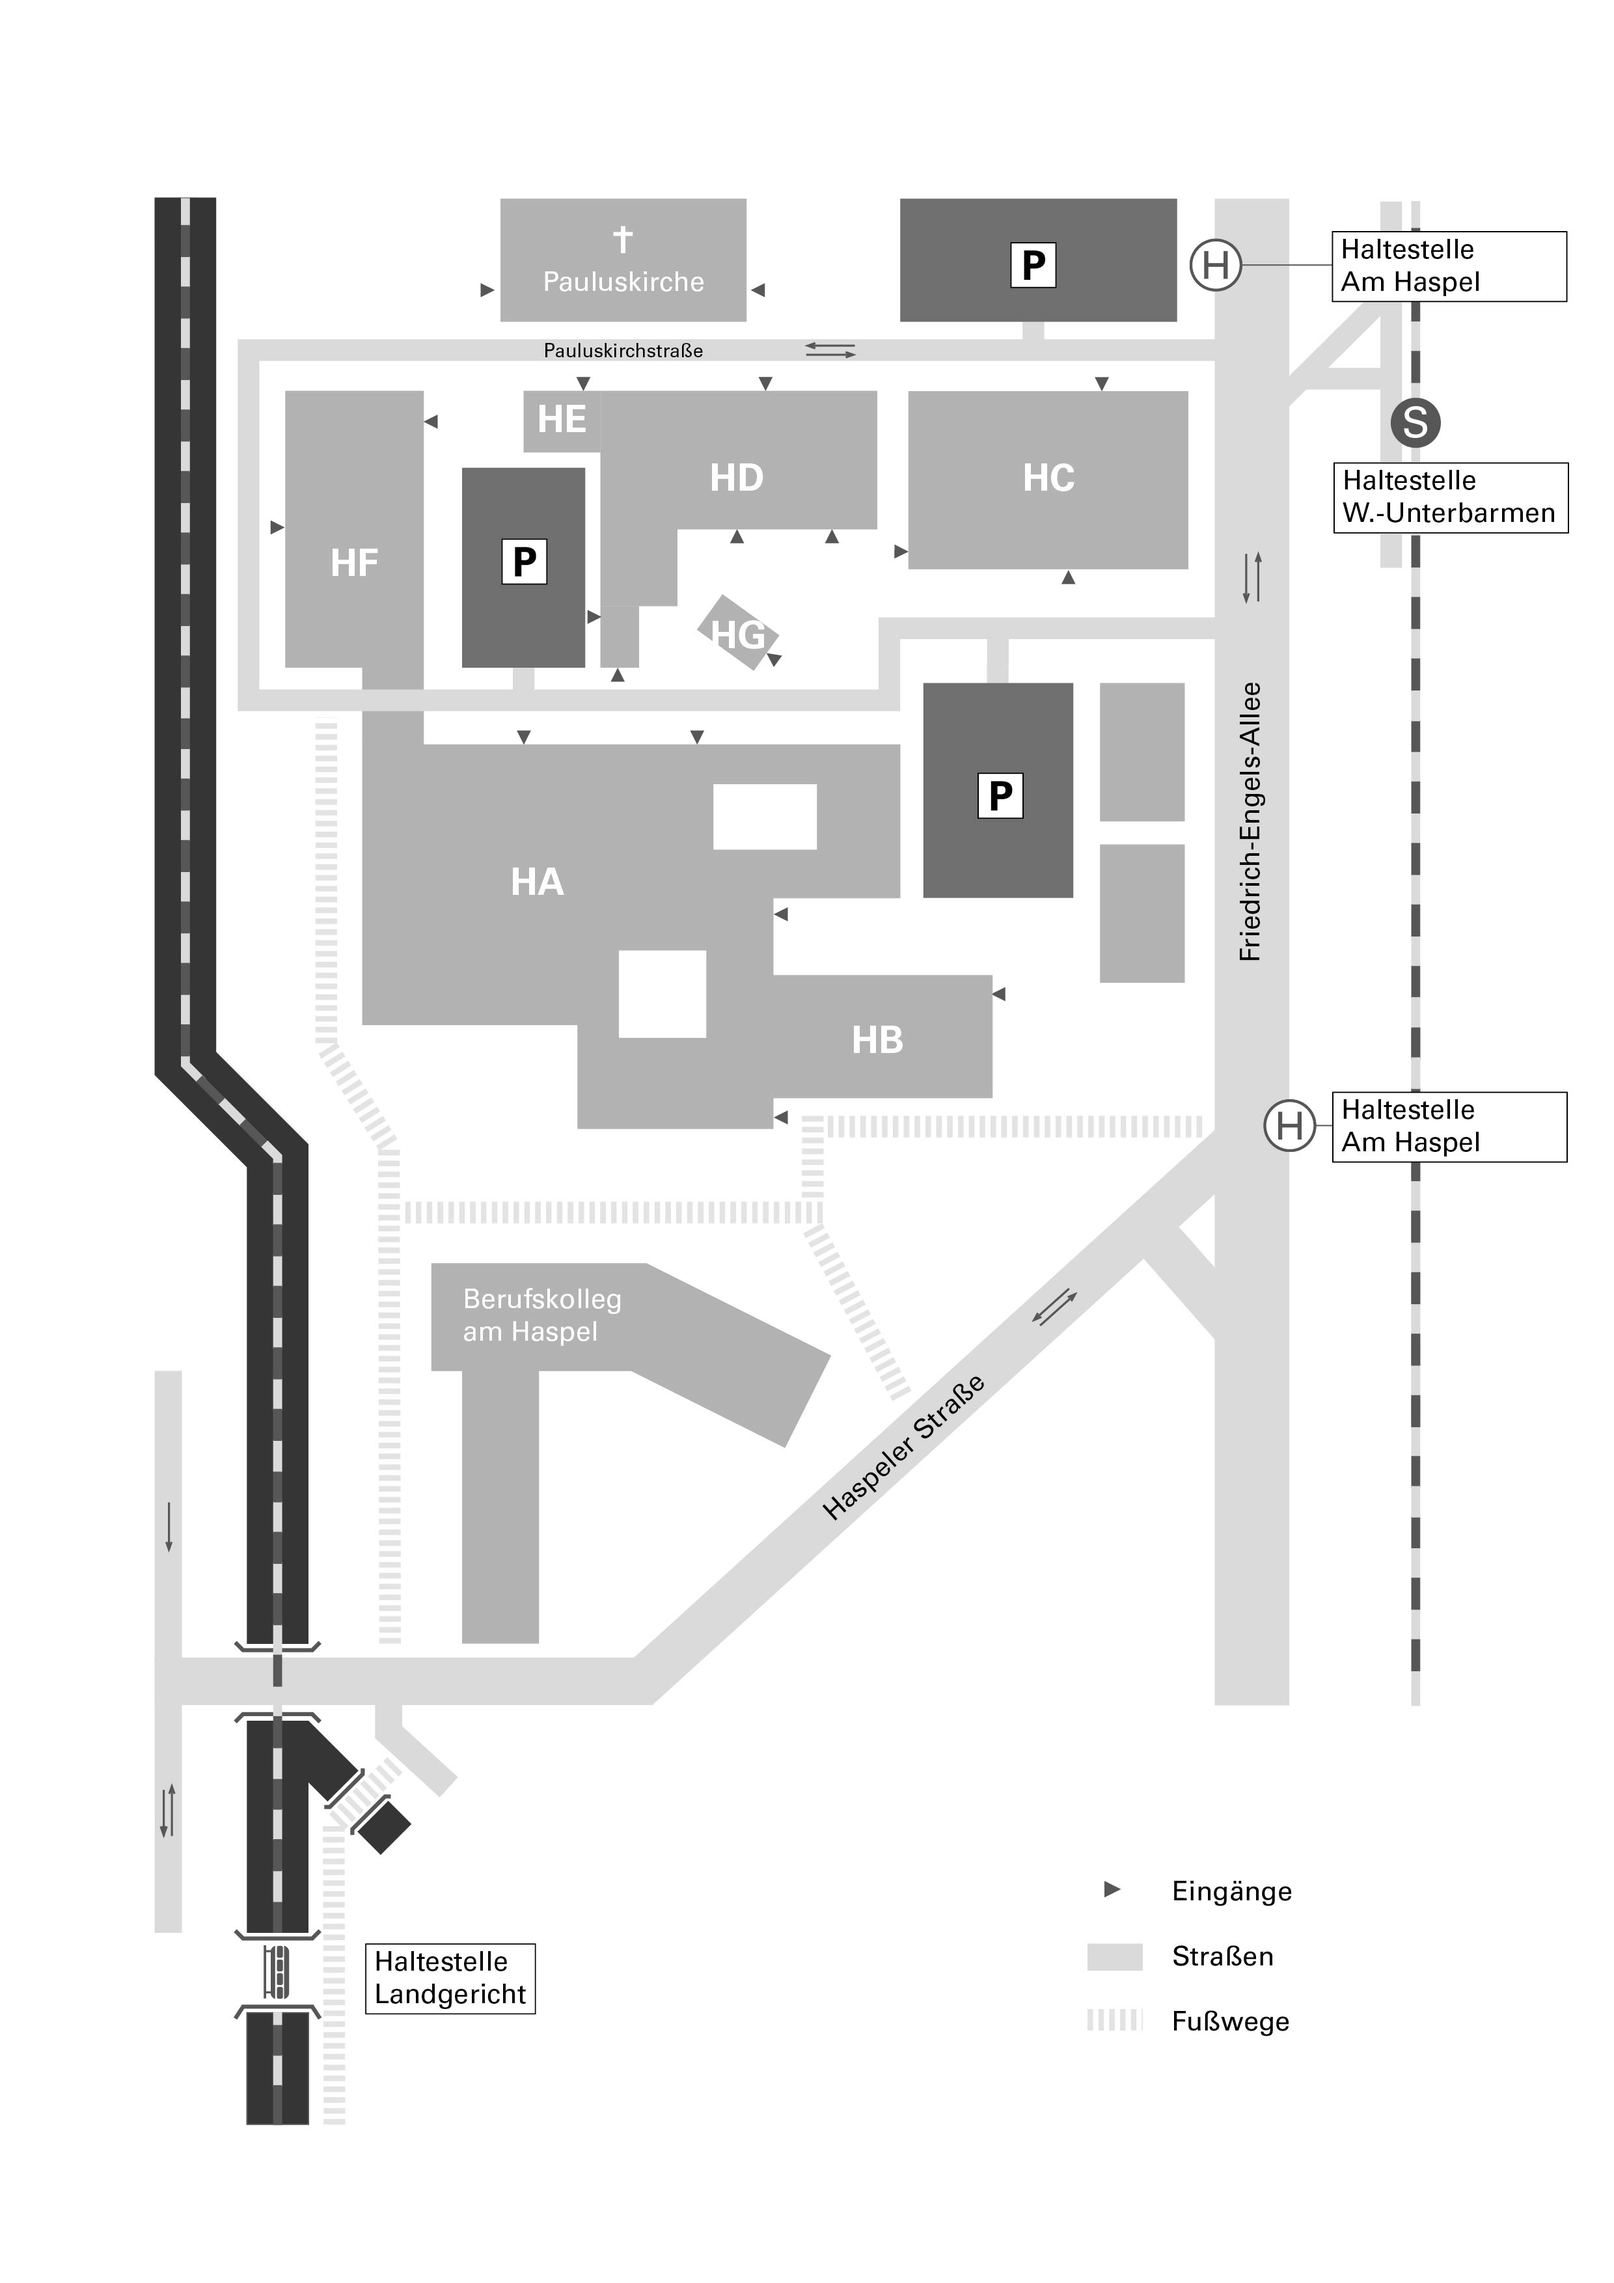
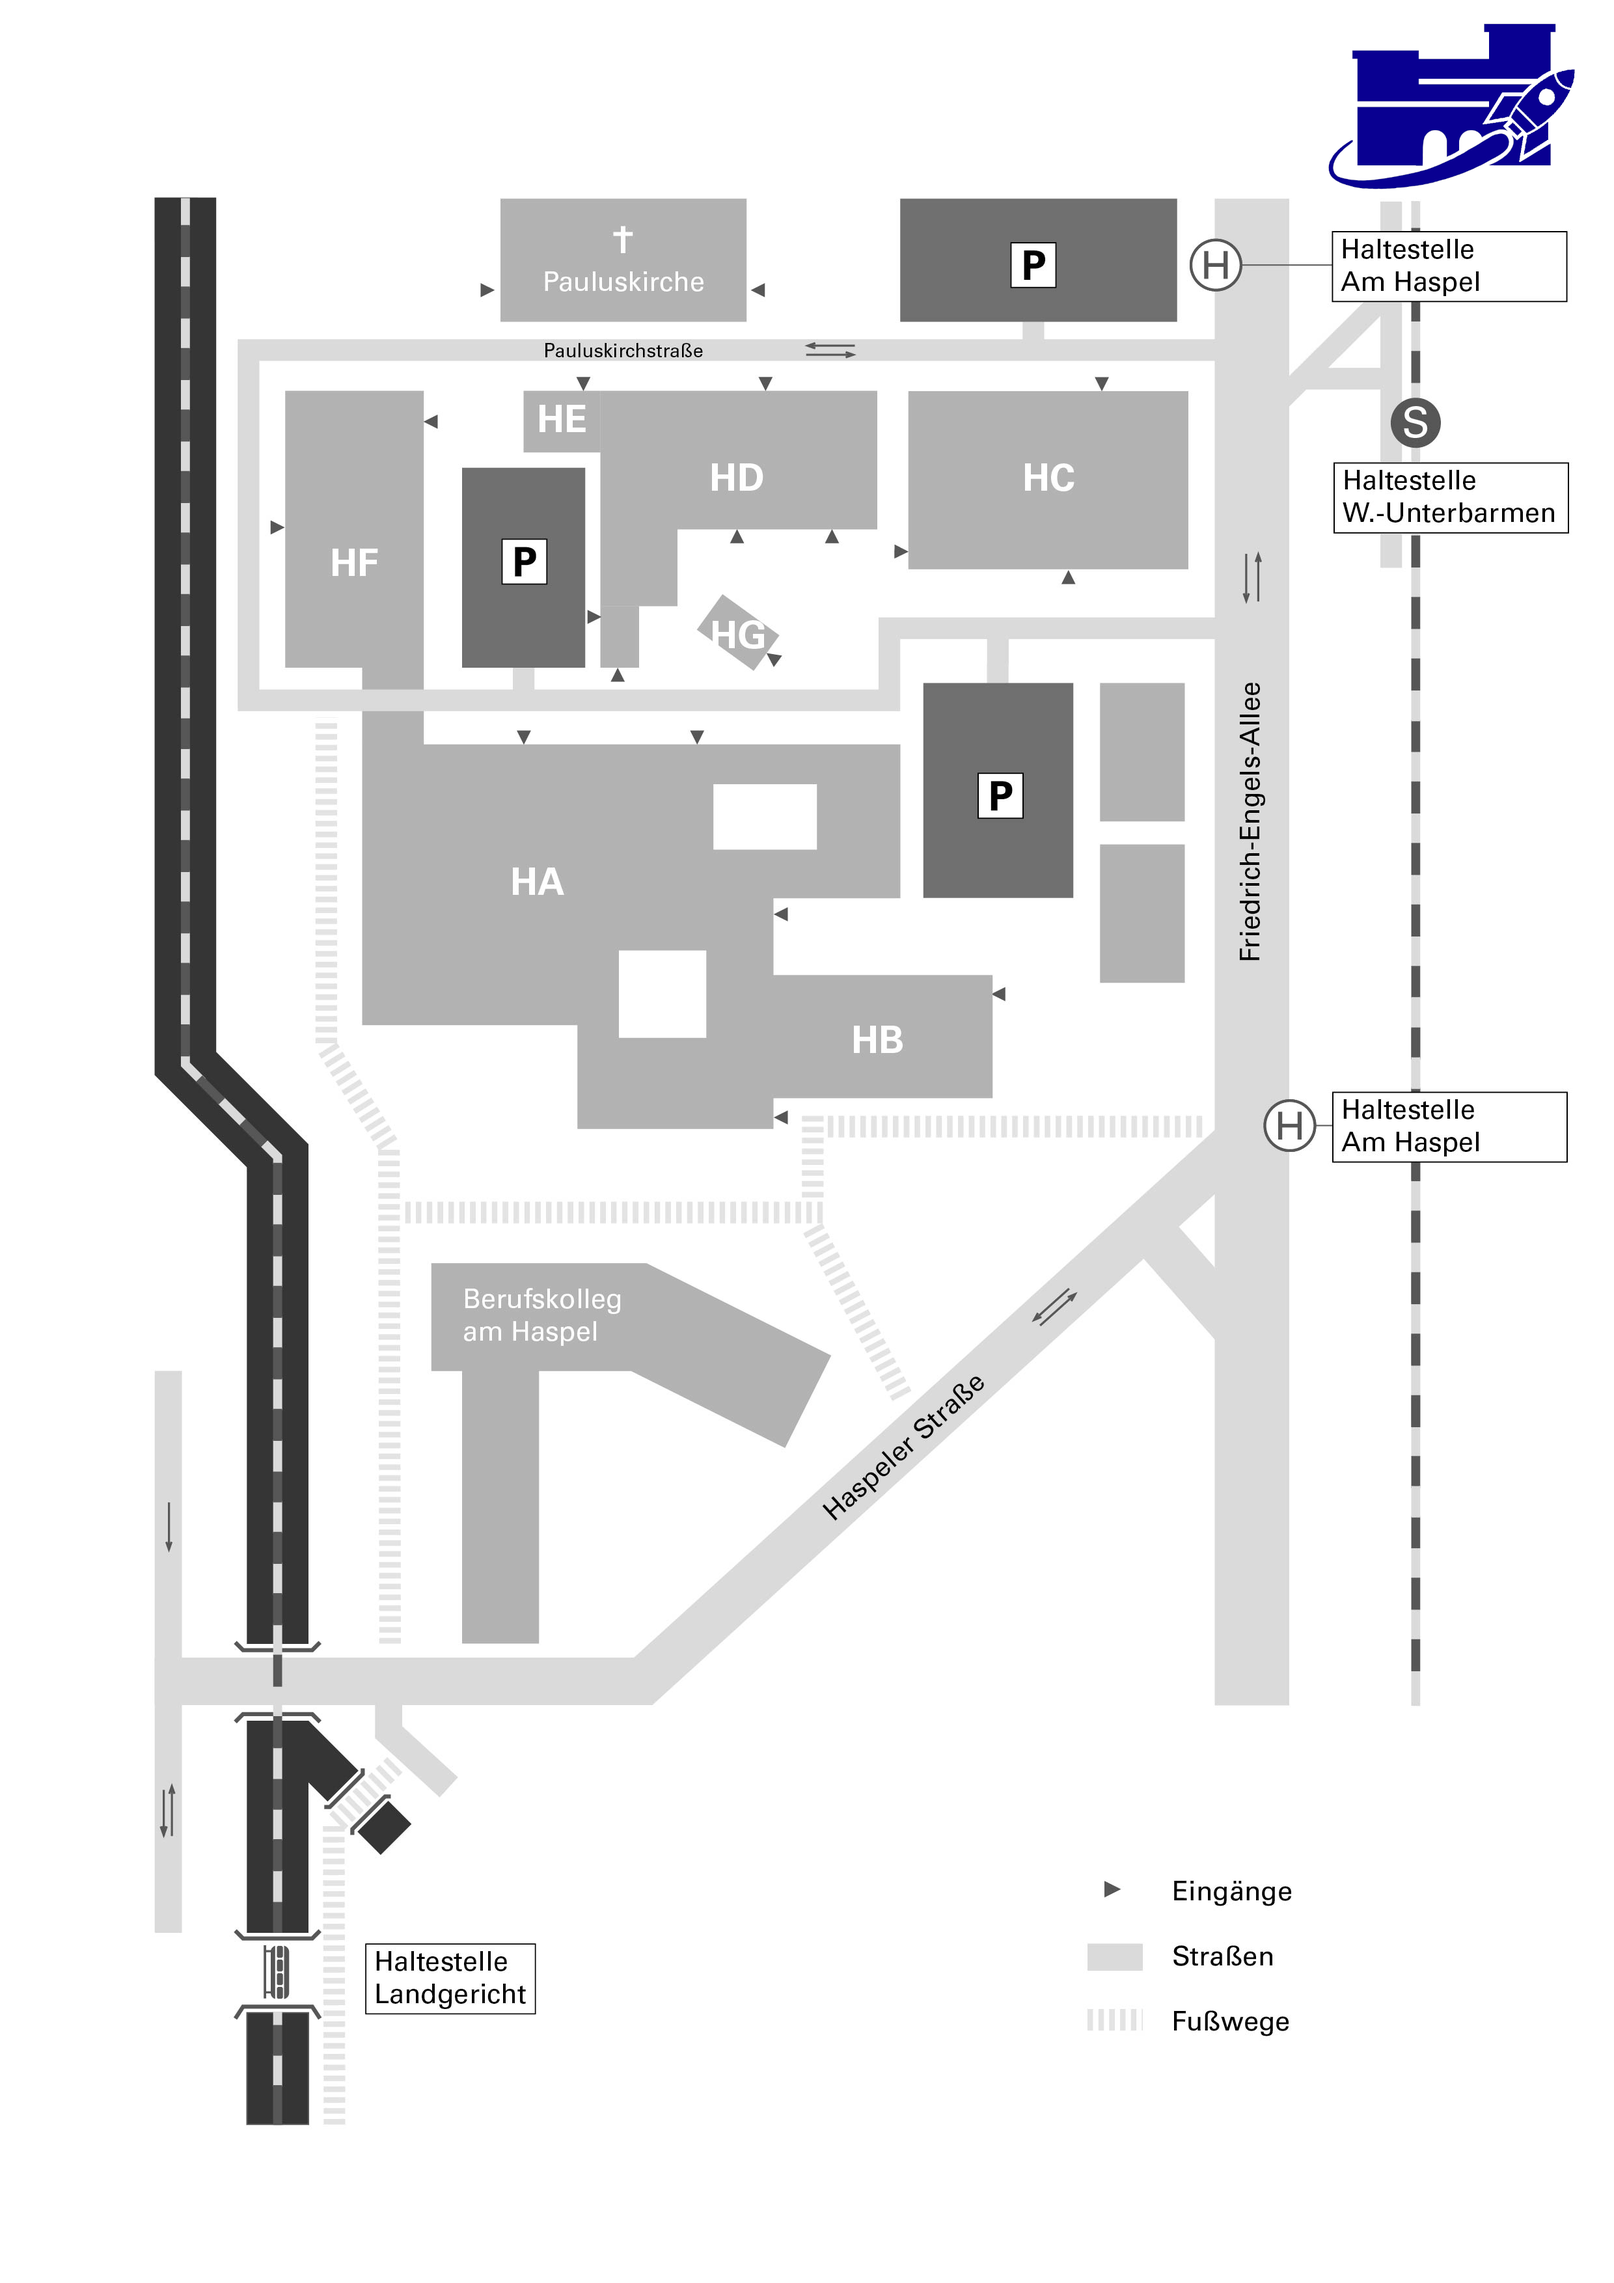
Various Design Changes

Changed region(s): [[0.8383, 0.0, 0.9935, 0.0932]]

diff --git a/src/App.vue b/src/App.vue
@@ -1,14 +1,7 @@
 <template>
   <v-app>
-    <SystemBar />
-
-    <v-navigation-drawer
-      :mini-variant="mini"
-      app
-      mini-variant-width="62"
-      permament
-      v-model="drawer"
-    >
+    <v-navigation-drawer :mini-variant="mini" app mini-variant-width="62" permanent v-model="drawer"
+      class="navigation-drawer" style="z-index: 3;">
       <v-list-item>
         <template v-if="!mini">
           <v-list-item-icon>
@@ -16,11 +9,7 @@
           </v-list-item-icon>
           <v-list-item-content>
             <v-list-item-title class="title">
-              <router-link
-                class="sidebar-title"
-                style="color: inherit; text-decoration: none"
-                to="/"
-              >
+              <router-link class="sidebar-title" style="color: inherit; text-decoration: none" to="/">
                 Space University
               </router-link>
             </v-list-item-title>
@@ -32,17 +21,10 @@
         </v-btn>
       </v-list-item>
 
-      <span
-        :key="group"
-        style="margin-top: 56px"
-        v-for="(group, index) of groups"
-      >
+      <span :key="group" style="margin-top: 56px" v-for="(group, index) of groups">
         <v-divider />
-        <v-subheader
-          :class="{ mini }"
-          class="nav-subheader"
-          v-text="shorten($vuetify.lang.t(groupNames[index]).toUpperCase())"
-        />
+        <v-subheader :class="{ mini }" class="nav-subheader"
+          v-text="shorten($vuetify.lang.t(groupNames[index]).toUpperCase())" />
         <Navigation :group="group" :nav="true" />
       </span>
 
@@ -58,29 +40,26 @@
     </v-navigation-drawer>
 
     <v-main>
-      <BreadcrumbBar />
       <router-view />
     </v-main>
+    <FooterBar />
   </v-app>
 </template>
 
 <script lang="ts">
 import Vue from 'vue';
 import { reactive, ref, watch } from '@vue/composition-api';
-import BreadcrumbBar from '@/components/BreadcrumbBar.vue';
 import Navigation from '@/components/Navigation.vue';
-import SystemBar from '@/components/SystemBar.vue';
 import EventDates from '@/components/campus/EventDates.vue';
-
+import FooterBar from '@/components/FooterBar.vue';
 import stores from '@/store/pouchDB/stores';
 
 export default Vue.extend({
   name: 'App',
   components: {
-    BreadcrumbBar,
     EventDates,
     Navigation,
-    SystemBar,
+    FooterBar,
   },
   beforeCreate() {
     stores.init();
@@ -111,8 +90,16 @@ export default Vue.extend({
 </script>
 
 <style>
-html {
-  overflow: hidden;
+html,
+body,
+#app,
+.v-application {
+  height: 100%;
+  margin: 0;
+}
+
+.v-navigation-drawer__content {
+  height: 100vh;
 }
 
 .nav-subheader {
@@ -131,5 +118,13 @@ html {
 
 .sidebar-title:not(:hover) {
   background-color: #ffffff;
+}
+
+.v-footer {
+  position: fixed;
+  bottom: 0;
+  width: calc(100% - 62px); /* Adjust width to account for the navigation drawer */
+  margin-left: 62px; /* Add left margin */
+  z-index: 1;
 }
 </style>

diff --git a/src/components/FooterBar.vue b/src/components/FooterBar.vue
@@ -1,0 +1,97 @@
+<template>
+    <v-footer color="#090091" app height="80px">
+        <v-container>
+            <v-row>
+                <v-col cols="12" md="4">
+                    <div class="logo-container">
+                        <img src="@/assets/img/logo-white-background.png" alt="Logo" class="logo" />
+                        <span class="title">Space University</span>
+                    </div>
+                </v-col>
+                <v-col cols="12" md="8">
+                    <div class="footer-controls">
+                        <v-menu offset-y>
+                            <template v-slot:activator="{ on, attrs }">
+                                <v-btn text tile small v-bind="attrs" v-on="on" class="role-picker">
+                                    <v-icon x-small>{{ state.role.icon }}</v-icon>
+                                    {{ state.role.name }}
+                                </v-btn>
+                            </template>
+                            <v-list dense>
+                                <v-list-item v-for="role in roles" :key="role.name" @click="iam(role)">
+                                    <v-list-item-icon>
+                                        <v-icon v-text="role.icon" />
+                                    </v-list-item-icon>
+                                    <v-list-item-content>
+                                        <v-list-item-title v-text="role.name" />
+                                    </v-list-item-content>
+                                </v-list-item>
+                            </v-list>
+                        </v-menu>
+                        <v-switch v-model="$vuetify.theme.dark" color="rgb(40,40,40)">Dark Mode</v-switch>
+                    </div>
+                </v-col>
+            </v-row>
+        </v-container>
+    </v-footer>
+</template>
+
+<script>
+import { pochtaStore } from '@/store/localStorage/pochta-store';
+
+export default {
+    name: 'FooterBar',
+    data: () => ({
+        roles: [
+            {
+                name: 'STUDENT',
+                icon: 'fa-user-graduate',
+            },
+            {
+                name: 'TUTOR',
+                icon: 'fa-user-tie',
+            },
+        ],
+    }),
+    setup() {
+        const iam = role => pochtaStore.iam(role);
+        const state = pochtaStore.state;
+
+        return {
+            state,
+            iam,
+        };
+    },
+};
+</script>
+
+<style scoped>
+.logo {
+    height: 40px;
+    vertical-align: middle;
+}
+.title {
+    color: white;
+    font-size: 20px;
+    margin-left: 10px;
+    vertical-align: middle;
+}
+.footer-controls {
+    position: fixed;
+    bottom: 10px;
+    right: 10px;
+    display: flex;
+    align-items: center;
+    gap: 10px;
+}
+.role-picker {
+    color: white;
+}
+.logo-container {
+    position: absolute;
+    left: 10px;
+    top: 20px;
+    display: flex;
+    align-items: center;
+}
+</style>

diff --git a/src/components/SystemBar.vue b/src/components/SystemBar.vue
@@ -1,31 +1,6 @@
 <template>
-  <v-system-bar app dark fixed color="primary" style="height: 28px; padding: 0">
-    <span class="mx-4">Vue Pochta</span>
-
-    <v-btn text tile small to="/">{{
-      $vuetify.lang.t('$vuetify.home.name')
-    }}</v-btn>
-
-    <div class="d-flex align-center">
-      <span :key="group" v-for="(group, index) in groups">
-        <v-menu offset-y>
-          <template v-slot:activator="{ on, attrs }">
-            <v-btn
-              text
-              tile
-              small
-              style="padding-right: 0"
-              v-bind="attrs"
-              v-on="on"
-            >
-              {{ $vuetify.lang.t(groupNames[index]) }}
-              <v-icon v-text="'fa-chevron-down'" />
-            </v-btn>
-          </template>
-          <Navigation :group="group" />
-        </v-menu>
-      </span>
-    </div>
+  <v-system-bar app dark bottom color="primary" style="height: 28px; padding: 0">
+    <span class="mx-4">Space University</span>
 
     <v-spacer />
 

diff --git a/src/components/about/Bugtracker.vue b/src/components/about/Bugtracker.vue
@@ -7,7 +7,7 @@
             <p>Wir versuchen Ihr Ticket so schnell wie möglich zu bearbeiten und werden Ihnen dann Rückmeldung geben!</p>
             <p>Bitte geben Sie so viele Details wie möglich an, damit wir das Problem effizient nachvollziehen und beheben können.</p>
             <p>Vielen Dank für Ihre Unterstützung und Ihr Verständnis.</p>
-            <button @click="openPopup">Ticket erstellen</button>
+            <button @click="openPopup" style="background-color: #090091;">Ticket erstellen</button>
         </div>
         <div class="right">
             <h2>Nicht abgeschlossene Tickets</h2>
@@ -80,7 +80,7 @@
                         <label>Ticketnummer:</label>
                         <p>{{ ticketNumber }}</p>
                     </div>
-                    <button type="submit">Ticket abschicken</button>
+                    <button type="submit" style="background-color: #090091; color: white;">Ticket abschicken</button>
                 </form>
             </div>
         </div>

diff --git a/src/components/about/Login.vue b/src/components/about/Login.vue
@@ -3,7 +3,7 @@
     <div class="welcome-container">
       <img src="@/assets/img/logo.png" alt="Logo" class="logo" />
       <h1>Wilkommen bei der Space University!</h1>
-      <p>Deine Reise zu den Sternen beginnt hier. Bitte logge dich ein oder registriere dich, um fortzufahren.</p>
+      <p>Deine Reise zu den Sternen beginnt hier! Bitte logge dich ein oder registriere dich, um fortzufahren.</p>
     </div>
     <div class="login-container">
       <h2>Login</h2>

diff --git a/src/router/routes.ts b/src/router/routes.ts
@@ -13,7 +13,7 @@ const routes = {
     {
       title: '$vuetify.aboutTutorial.name', // Add this section
       to: '/about/tutorial',
-      icon: 'fa-book',
+      icon: 'fa-info-circle', // Changed icon to information icon
     },
     {
       title: '$vuetify.aboutLogin.name', // Add this section
